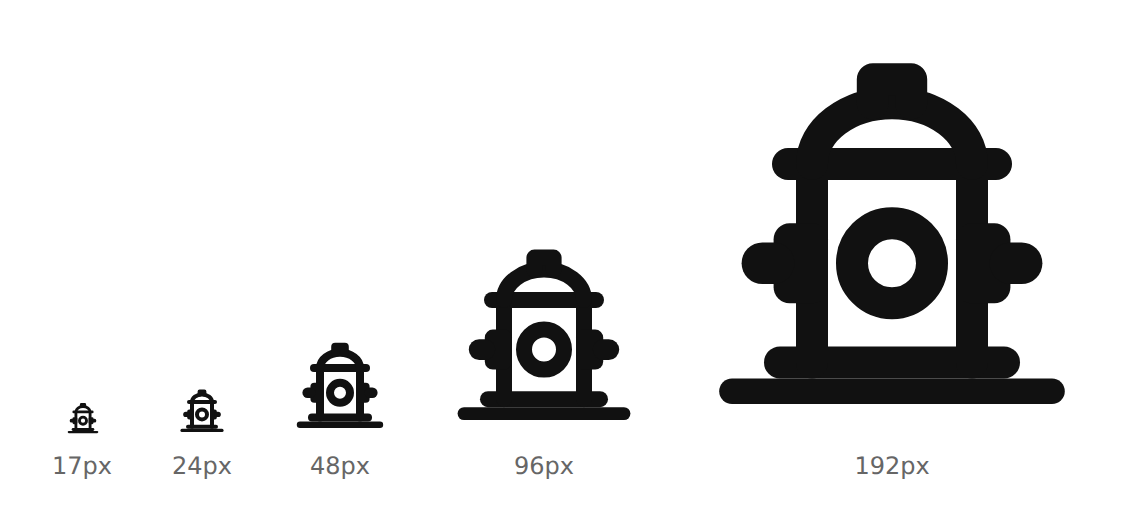
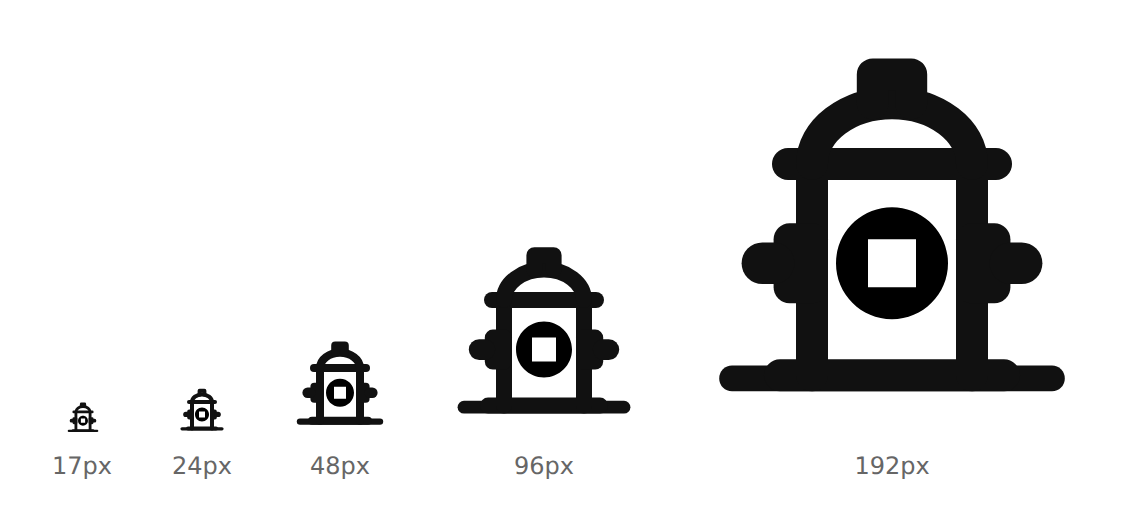
The cap is a disc with a square nut; the foot is a plinth on the ground

diff --git a/lib/Icons.lib.php b/lib/Icons.lib.php
@@ -446,10 +446,17 @@ $ec_icons = array(
 	//       directly above the springing, so it leaves the collar on a VERTICAL tangent and
 	//       continues the barrel line rather than meeting it at an angle. Move the springing and
 	//       that alignment is what breaks; it is the note he made twice.
-	//   F  **it rises from the ground; it does not float.** The foot flange (painted to y 20.4) now
-	//       meets the ground line (painted from 20.4). The gap under it was the whole of this note.
-	//   G  **the white centre of the front cap IS the nut** -- literally a square, though *"a circle
-	//       is acceptable for an icon"*, which is why it stays a circle.
+	//   F  **it rises from the ground; it does not float**, and then, once it did: *"It's pleasing
+	//       and natural for the bottom flange to be FLUSH with the ground... This makes the icon
+	//       less busy."* So the foot and the ground share a bottom edge (both painted to y 21.2)
+	//       and the ground is the thinner, wider one. Two stacked bars with air between them was
+	//       the busyness; touching them was not enough. **It is the BOTTOM edges that are flush**,
+	//       and what the shape is meant to read as is a PLINTH -- his word, and the way the public
+	//       sees a hydrant's base.
+	//   G  **the front cap is a solid disc with a SQUARE hole, and the hole is the nut.** He allowed
+	//       a circle -- *"a circle is acceptable for an icon"* -- and then sent the drawing, which
+	//       is square, so square it is: `fill-rule="evenodd"` with the square as a second subpath.
+	//       An outlined RING was the earlier reading and it is wrong: the cap is solid.
 	//
 	// **A CORRECTION, BECAUSE IT WAS WRITTEN HERE AS A MEASUREMENT AND WAS NOT ONE.** This file
 	// claimed there was no nut inside the pumper ring because "a third concentric feature has
@@ -472,8 +479,8 @@ $ec_icons = array(
 	// a 2-unit stroke eats one unit either side of every line, so a gap under about 2.5 units
 	// closes). Feature count has never been the constraint here:
 	//   walls painted to x = 8 and 16, so 8 units of clear barrel face
-	//   front cap ring r = 2.5 at (12, 13.2), painted 8.5..15.5 -- 0.5 units of air to each wall
-	//   its white centre is 3 units across: open to 96 px, closing below that into a solid cap,
+	//   front cap disc r = 3.5 at (12, 13.2), painted 8.5..15.5 -- 0.5 units of air to each wall
+	//   its square nut hole is 3 units across: open to 96 px, closing below that into a solid cap,
 	//     which degrades to a plausible reading rather than to noise
 	//   all three caps span y 10.7..15.7 painted; collar painted bottom is 8 and flange painted top
 	//     is 18.4, so 2.7 units of air above and below the whole nozzle band
@@ -488,18 +495,20 @@ $ec_icons = array(
 	//
 	// Cubics, never an `A` arc, for the bonnet dome and the ring: icon_ascii_preview.php models
 	// M/L/H/V/C/Z only, so an arc renders as nonsense there and that tool goes blind.
-	'hydrant'    => '<path stroke-width="1.6" d="M2 21.2H22"/>'
-		. '<path d="M5 19.4H19"/>'
-		. '<path d="M7 19.4V7"/><path d="M17 19.4V7"/>'
+	'hydrant'    => '<path stroke-width="1.6" d="M2 20.4H22"/>'
+		. '<path d="M5 20.2H19"/>'
+		. '<path d="M7 20.2V7"/><path d="M17 20.2V7"/>'
 		. '<path d="M5.5 7H18.5"/>'
 		. '<path d="M7 7C7 4.9 9.24 3.2 12 3.2C14.76 3.2 17 4.9 17 7"/>'
-		. '<path d="M10.8 3.2V1.7H13.2V3.2"/>'
+		. '<path d="M10.8 3.2V1.4H13.2V3.2"/>'
 		. '<path fill="currentColor" d="M5.6 11.7H7V14.7H5.6Z"/>'
 		. '<path stroke-width="2.6" d="M4.6 13.2H3.9"/>'
 		. '<path fill="currentColor" d="M18.4 11.7H17V14.7H18.4Z"/>'
 		. '<path stroke-width="2.6" d="M19.4 13.2H20.1"/>'
-		. '<path d="M12 10.7C13.38 10.7 14.5 11.82 14.5 13.2C14.5 14.58 13.38 15.7 12 15.7'
-		. 'C10.62 15.7 9.5 14.58 9.5 13.2C9.5 11.82 10.62 10.7 12 10.7Z"/>',
+		. '<path fill="currentColor" stroke="none" fill-rule="evenodd"'
+		. ' d="M12 9.7C13.933 9.7 15.5 11.267 15.5 13.2C15.5 15.133 13.933 16.7 12 16.7'
+		. 'C10.067 16.7 8.5 15.133 8.5 13.2C8.5 11.267 10.067 9.7 12 9.7Z'
+		. 'M10.5 11.7H13.5V14.7H10.5Z"/>',
 
 	// CANDIDATES for the Water menu, drawn 2026-08-25. Tom: the drop and the eye *"don't look
 	// different enough, especially with the association of tears and eyes"*. He named a water tower
